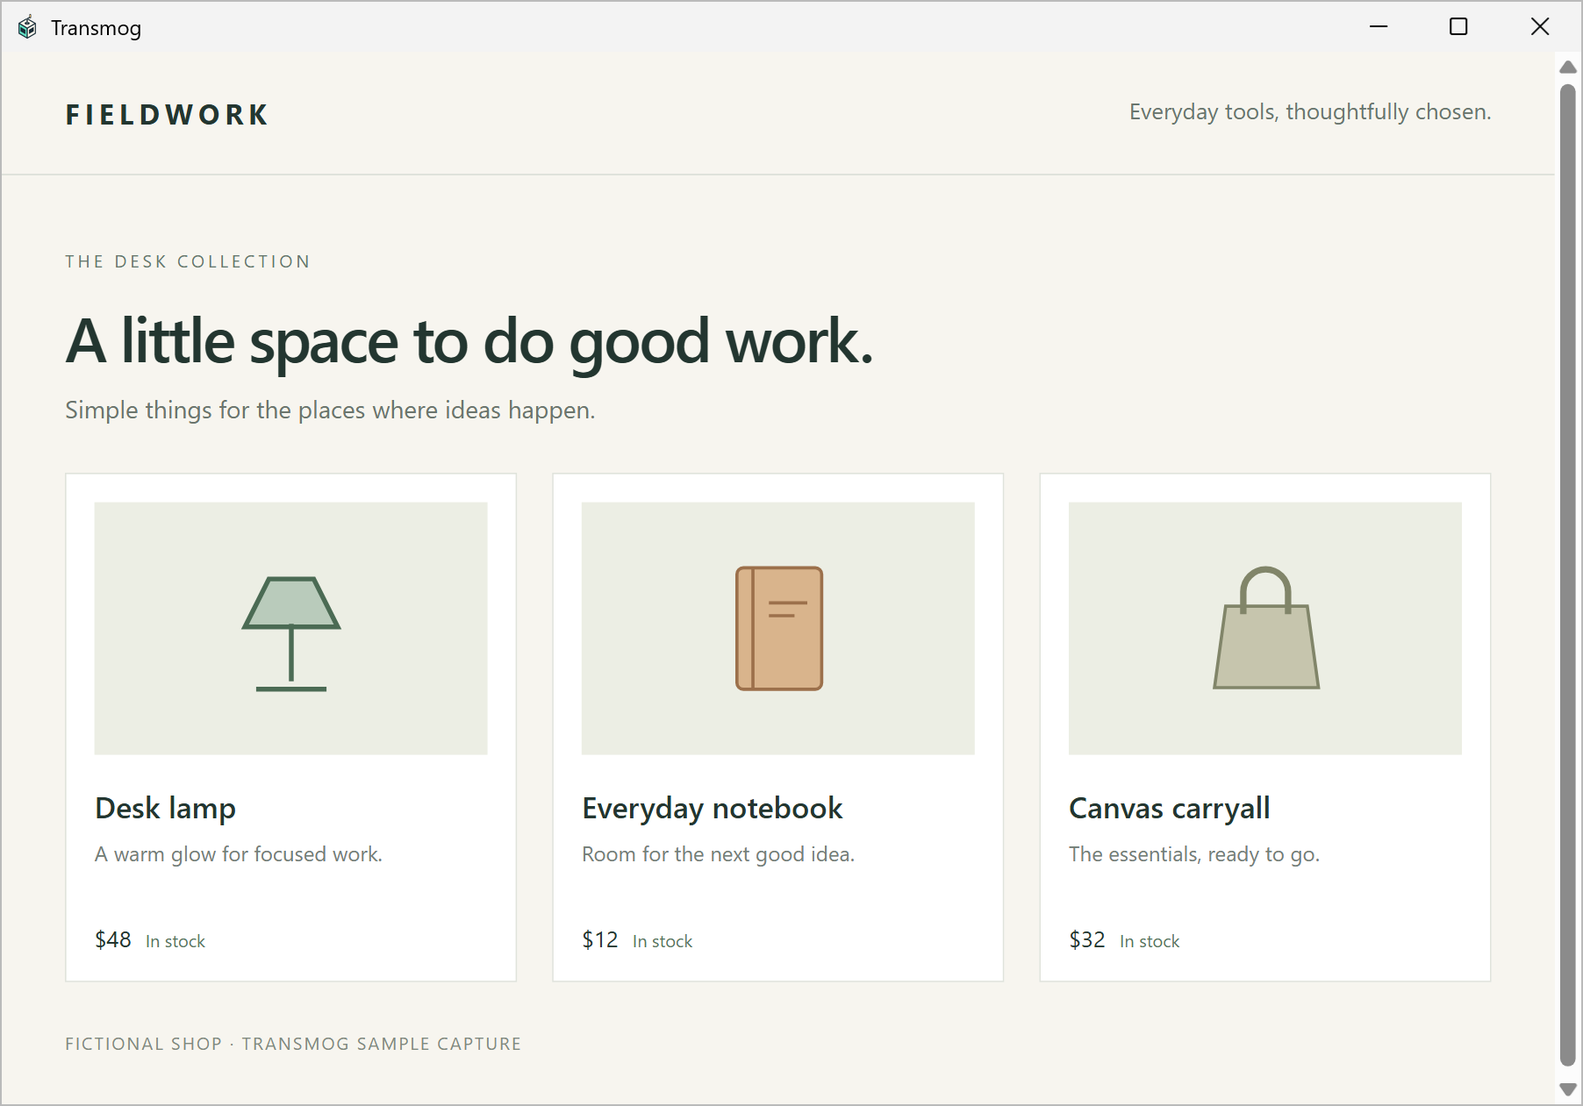
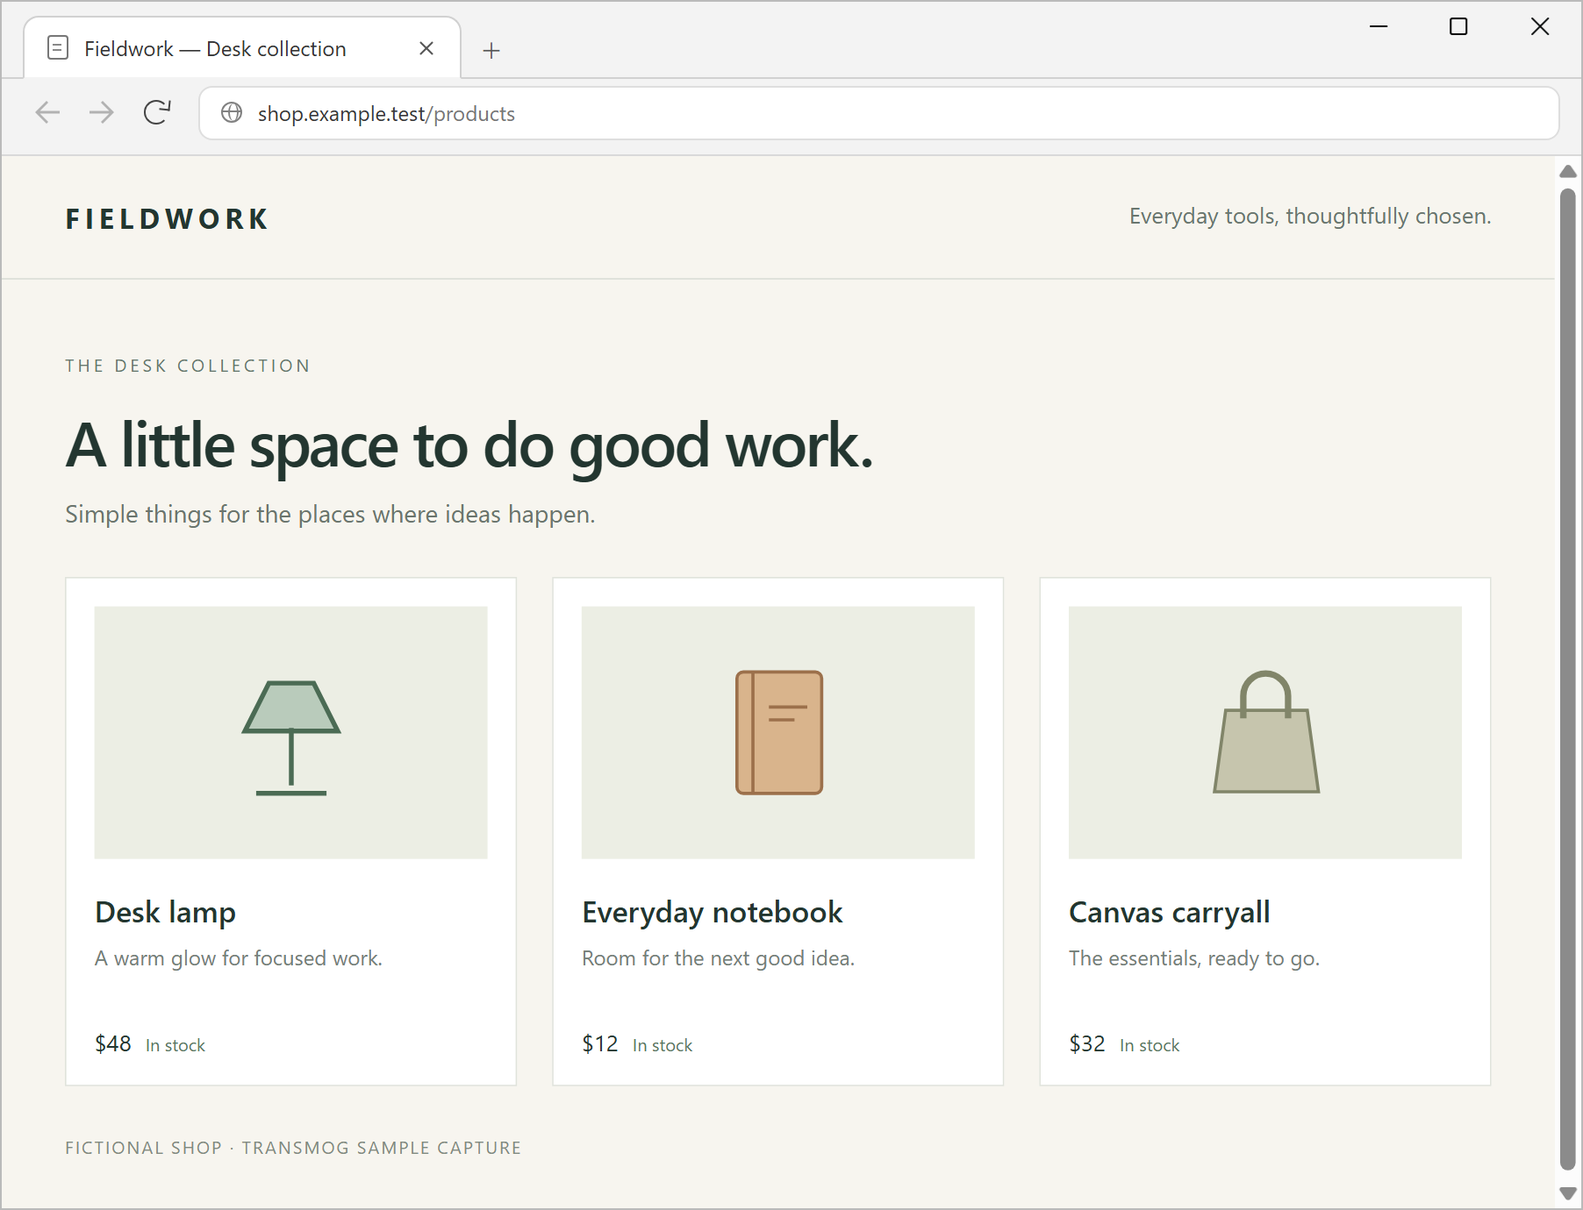
Render page previews with the joined browser frame

diff --git a/scripts/browser-frame.html b/scripts/browser-frame.html
@@ -1,0 +1,139 @@
+<!doctype html>
+<html lang="en">
+<head>
+  <meta charset="utf-8">
+  <meta name="viewport" content="width=device-width, initial-scale=1">
+  <title>Browser frame treatments</title>
+  <style>
+    * { box-sizing: border-box; }
+    body { margin: 24px; background: #faf8f2; color: #243238; font-family: "Segoe UI", system-ui, sans-serif; }
+    .demo-controls { display: flex; flex-wrap: wrap; gap: 20px; margin-bottom: 24px; }
+    .demo-controls label { display: grid; gap: 6px; font-size: 13px; }
+    .demo-controls select { min-width: 180px; padding: 8px; font: inherit; }
+    body[data-capture] { margin: 0; background: transparent; }
+    body[data-capture] .demo-controls { display: none; }
+
+    /* All dimensions below are logical pixels. Capture this element at 2×. */
+    .browser-window { width: 902px; border: 1px solid #bababa; background: #fff; color: #343434; }
+    .title-bar { position: relative; display: flex; align-items: flex-end; height: 40px; padding-left: 12px; background: #f3f3f3; }
+    /* Transform the native bitmap to logical size without fractional layout resampling. */
+    .window-controls { position: absolute; top: 0; right: 0; width: 243px; height: 57px; transform: scale(.5); transform-origin: top right; }
+    .browser-tab { position: relative; display: flex; align-items: center; gap: 9px; width: 258px; height: 32px; padding: 0 13px; border-radius: 9px 9px 0 0; background: #fff; font-size: 12px; }
+    .tab-title { flex: 1; overflow: hidden; white-space: nowrap; text-overflow: ellipsis; }
+    .page-icon { width: 12px; height: 14px; border: 1px solid #777; border-radius: 2px; flex: none; }
+    .page-icon::after { content: ""; display: block; width: 5px; margin: 4px 2px; border-top: 1px solid #888; box-shadow: 0 3px #888; }
+    .tab-close { position: relative; width: 12px; height: 12px; flex: none; }
+    .tab-close::before, .tab-close::after { content: ""; position: absolute; top: 5.5px; left: 1px; width: 10px; height: 1px; background: #555; transform: rotate(45deg); }
+    .tab-close::after { transform: rotate(-45deg); }
+    .new-tab { display: grid; place-items: center; width: 34px; height: 32px; font-size: 21px; font-weight: 300; color: #555; }
+    .toolbar { display: flex; align-items: center; gap: 10px; height: 44px; padding: 0 12px; border-bottom: 1px solid #d9d9d9; background: #fff; }
+    .navigation { display: flex; align-items: center; gap: 3px; }
+    .navigation button { display: grid; place-items: center; width: 28px; height: 28px; padding: 0; border: 0; border-radius: 5px; background: transparent; color: #444; }
+    .navigation button:disabled { color: #b2b2b2; }
+    .navigation button:not(:disabled):hover { background: #e8e8e8; }
+    /* One connected silhouette; mirroring preserves every join and stroke. */
+    .arrow { width: 16px; height: 16px; background: currentColor; clip-path: polygon(6.25% 50%, 46.875% 9.375%, 53.125% 15.625%, 23.4375% 45.3125%, 93.75% 45.3125%, 93.75% 54.6875%, 23.4375% 54.6875%, 53.125% 84.375%, 46.875% 90.625%); }
+    .forward { transform: scaleX(-1); }
+    .reload { position: relative; width: 14px; height: 14px; border: 1.5px solid; border-right-color: transparent; border-radius: 50%; }
+    .reload::after { content: ""; position: absolute; right: -1.5px; top: -1.5px; width: 5px; height: 5px; border-right: 1.5px solid; border-bottom: 1.5px solid; transform: rotate(6deg); }
+    .address { display: flex; align-items: center; gap: 9px; flex: 1; min-width: 0; height: 30px; padding: 0 12px; border-radius: 16px; background: #f3f3f3; font-size: 12px; }
+    .site-icon { width: 12px; height: 12px; border: 1px solid #818181; border-radius: 50%; position: relative; flex: none; }
+    .site-icon::before { content: ""; position: absolute; top: 4px; left: 0; width: 10px; border-top: 1px solid #818181; }
+    .site-icon::after { content: ""; position: absolute; top: 0; left: 3px; width: 4px; height: 10px; border-left: 1px solid #818181; border-right: 1px solid #818181; border-radius: 50%; }
+    .url { overflow: hidden; white-space: nowrap; text-overflow: ellipsis; color: #383838; }
+    .url-path { color: #777; }
+    .snapshot-viewport { position: relative; width: 900px; height: 600px; overflow: hidden; background: #f8f6ef; }
+    .snapshot { position: absolute; width: 902px; max-width: none; height: auto; left: -1px; bottom: -1px; display: block; }
+
+    .browser-window[data-treatment="floating"] .title-bar { height: 44px; align-items: center; }
+    .browser-window[data-treatment="floating"] .browser-tab { width: 250px; height: 29px; border: 1px solid #dedede; border-radius: 9px; box-shadow: 0 1px 2px #0000000d; }
+    .browser-window[data-treatment="floating"] .toolbar { background: #f3f3f3; padding-bottom: 5px; height: 44px; }
+    .browser-window[data-treatment="floating"] .address { height: 31px; background: #fff; border: 1px solid #dedede; border-radius: 8px; }
+    .browser-window[data-treatment="floating"] .navigation button { border-radius: 50%; }
+
+    /* The floating treatment's soft surfaces with one continuous tab outline. */
+    .browser-window[data-treatment="joined"] .title-bar { height: 44px; padding-left: 12px; border-bottom: 1px solid #d1d1d1; }
+    .browser-window[data-treatment="joined"] .browser-tab { z-index: 1; bottom: -1px; width: 250px; height: 36px; border: 1px solid #d1d1d1; border-bottom-color: #f3f3f3; border-radius: 9px 9px 0 0; background: #fff; }
+    .browser-window[data-treatment="joined"] .new-tab { height: 36px; }
+    .browser-window[data-treatment="joined"] .toolbar { height: 44px; padding-bottom: 5px; background: #f3f3f3; }
+    .browser-window[data-treatment="joined"] .address { height: 31px; border: 1px solid #dedede; border-radius: 8px; background: #fff; }
+    .browser-window[data-treatment="joined"] .navigation button { border-radius: 50%; }
+
+    .browser-window[data-treatment="compact"] .title-bar { height: 34px; padding-left: 8px; }
+    .browser-window[data-treatment="compact"] .browser-tab { width: 218px; height: 29px; border: 1px solid #d6d6d6; border-bottom: 0; border-radius: 4px 4px 0 0; }
+    .browser-window[data-treatment="compact"] .new-tab { height: 29px; }
+    .browser-window[data-treatment="compact"] .toolbar { height: 34px; padding: 0 9px; gap: 10px; }
+    .browser-window[data-treatment="compact"] .navigation { gap: 0; padding-right: 8px; border-right: 1px solid #ddd; }
+    .browser-window[data-treatment="compact"] .navigation button { width: 26px; height: 26px; }
+    .browser-window[data-treatment="compact"] .address { height: 26px; padding-left: 0; background: transparent; border-radius: 0; }
+  </style>
+</head>
+<body>
+  <div class="demo-controls">
+    <label>Treatment<select id="treatment"><option value="joined">Joined tab</option><option value="raised">Raised tab</option><option value="floating">Floating tab</option><option value="compact">Compact tab</option></select></label>
+    <label>Response<select id="response"><option value="original">Original response</option><option value="modified">Modified response</option></select></label>
+  </div>
+  <main class="browser-window" id="browser-window" data-treatment="joined" aria-label="Generic browser preview">
+    <div class="title-bar">
+      <div class="browser-tab"><span class="page-icon" aria-hidden="true"></span><span class="tab-title">Fieldwork — Desk collection</span><span class="tab-close" aria-hidden="true"></span></div>
+      <span class="new-tab" aria-hidden="true">+</span>
+      <img class="window-controls" src="screenshot-assets/right-windows-title-bar.png" width="243" height="57" alt="Windows minimize, maximize, and close controls">
+    </div>
+    <div class="toolbar">
+      <nav class="navigation" aria-label="Browser navigation">
+        <button type="button" disabled aria-label="Back"><span class="arrow" aria-hidden="true"></span></button>
+        <button type="button" disabled aria-label="Forward"><span class="arrow forward" aria-hidden="true"></span></button>
+        <button type="button" id="reload" aria-label="Reload"><span class="reload" aria-hidden="true"></span></button>
+      </nav>
+      <div class="address" aria-label="Address: shop.example.test/products"><span class="site-icon" aria-hidden="true"></span><span class="url">shop.example.test<span class="url-path">/products</span></span></div>
+    </div>
+    <div class="snapshot-viewport"><img class="snapshot" src="../assets/screenshots/preview-original.png" width="1804" height="1380" alt="Captured fictional Fieldwork shop"></div>
+  </main>
+  <script>
+    const parameters = new URLSearchParams(location.search);
+    if (parameters.has("capture")) document.body.dataset.capture = "";
+    const browserWindow = document.getElementById("browser-window");
+    const snapshotImage = document.querySelector(".snapshot");
+    const controlsImage = document.querySelector(".window-controls");
+    const treatmentSelect = document.getElementById("treatment");
+    const responseSelect = document.getElementById("response");
+    const sources = {
+      original: "../assets/screenshots/preview-original.png",
+      modified: "../assets/screenshots/preview-css-change.png",
+    };
+    // The capture runner can supply a fresh, unframed snapshot. The standalone
+    // defaults align the page to the bottom border, independent of header height.
+    window.renderBrowserFrame = async ({
+      treatment = "joined", response = "original", snapshot,
+      density = 2, sourceWidth,
+      contentBounds = { x: 2, width: 1800, height: 1200 },
+    } = {}) => {
+      if (!["joined", "raised", "floating", "compact"].includes(treatment) || !sources[response])
+        throw new Error("Unknown browser frame treatment or response");
+      browserWindow.dataset.treatment = treatment;
+      treatmentSelect.value = treatment;
+      responseSelect.value = response;
+      browserWindow.style.width = contentBounds.width / density + 2 + "px";
+      const viewport = document.querySelector(".snapshot-viewport");
+      viewport.style.width = contentBounds.width / density + "px";
+      viewport.style.height = contentBounds.height / density + "px";
+      snapshotImage.src = snapshot || sources[response];
+      await Promise.all([snapshotImage.decode(), controlsImage.decode(), document.fonts.ready]);
+      const y = contentBounds.y ?? snapshotImage.naturalHeight - contentBounds.height - contentBounds.x;
+      snapshotImage.style.width = (sourceWidth ?? snapshotImage.naturalWidth) / density + "px";
+      snapshotImage.style.left = -contentBounds.x / density + "px";
+      snapshotImage.style.top = -y / density + "px";
+      snapshotImage.style.bottom = "auto";
+      return { width: browserWindow.offsetWidth, height: browserWindow.offsetHeight };
+    };
+    const update = () => window.renderBrowserFrame({ treatment: treatmentSelect.value, response: responseSelect.value });
+    treatmentSelect.addEventListener("change", update);
+    responseSelect.addEventListener("change", update);
+    document.getElementById("reload").addEventListener("click", () => snapshotImage.decode());
+    window.browserFrameReady = window.renderBrowserFrame({
+      treatment: parameters.get("treatment") || "joined",
+      response: parameters.get("response") || "original",
+    });
+  </script>
+</body>
+</html>

diff --git a/index.html b/index.html
@@ -55,8 +55,8 @@
         <div class="story-copy"><p>Modify response headers or content to test how your app behaves. Try saved responses in a captured-page preview, compare the result with the original, and choose when to apply changes to live traffic.</p><p>Keep related changes in a response set, save named versions, and retain a demo—even after clearing Traffic or restarting. Previews use available captured resources and saved responses; missing resources stay blocked.</p></div>
       </div>
       <div class="preview-pair">
-        <figure class="preview-shot"><div class="shot-label"><span>Original response</span><span class="figure-tag">CAPTURED PAGE</span></div><a class="screenshot-link" href="assets/screenshots/preview-original.png" data-lightbox="Original captured-page preview" aria-label="Enlarge the original captured-page preview"><img src="assets/screenshots/preview-original.png" width="1804" height="1261" loading="lazy" alt="Captured sample shop with a cramped two-column product layout."><span class="zoom-hint" aria-hidden="true">↗ Expand screenshot</span></a></figure>
-        <figure class="preview-shot modified"><div class="shot-label"><span>Modified response</span><span class="figure-tag">SAME CAPTURE</span></div><a class="screenshot-link" href="assets/screenshots/preview-css-change.png" data-lightbox="Modified captured-page preview" aria-label="Enlarge the modified captured-page preview"><img src="assets/screenshots/preview-css-change.png" width="1804" height="1261" loading="lazy" alt="The same captured shop with three columns and more spacing after editing its stylesheet response."><span class="zoom-hint" aria-hidden="true">↗ Expand screenshot</span></a></figure>
+        <figure class="preview-shot"><div class="shot-label"><span>Original response</span><span class="figure-tag">CAPTURED PAGE</span></div><a class="screenshot-link" href="assets/screenshots/preview-original.png" data-lightbox="Original captured-page preview" aria-label="Enlarge the original captured-page preview"><img src="assets/screenshots/preview-original.png" width="1804" height="1380" loading="lazy" alt="Captured sample shop with a cramped two-column product layout."><span class="zoom-hint" aria-hidden="true">↗ Expand screenshot</span></a></figure>
+        <figure class="preview-shot modified"><div class="shot-label"><span>Modified response</span><span class="figure-tag">SAME CAPTURE</span></div><a class="screenshot-link" href="assets/screenshots/preview-css-change.png" data-lightbox="Modified captured-page preview" aria-label="Enlarge the modified captured-page preview"><img src="assets/screenshots/preview-css-change.png" width="1804" height="1380" loading="lazy" alt="The same captured shop with three columns and more spacing after editing its stylesheet response."><span class="zoom-hint" aria-hidden="true">↗ Expand screenshot</span></a></figure>
       </div>
       <div class="example-note"><p>One example: the same captured page, with an edited stylesheet response.</p><span class="sample-note">Captured-page preview · Sample page</span></div>
       <details class="editor-example"><summary>See the response edit</summary><a class="screenshot-link feature-shot" href="assets/screenshots/response-set-css.png" data-lightbox="Response editor" aria-label="Enlarge the response editor screenshot"><img src="assets/screenshots/response-set-css.png" width="2884" height="1861" loading="lazy" alt="Transmog response-set editor with the saved stylesheet change used in the preview."><span class="zoom-hint" aria-hidden="true">↗ Expand screenshot</span></a></details>

diff --git a/README.md b/README.md
@@ -22,12 +22,12 @@ Pushes to `main` run the checks and publish `dist/`. Pull requests run the same 
 
 ## Reproduce the product screenshots
 
-The nine screenshots come from the **released Windows app**, including its native captured-page previews. The current source is v0.1.15 Canary; `screenshot-source.json` pins its source commit and hashes for the app, CLI, and both worker executables. The release installer and CLI were checked against the release's published `SHA256SUMS` before extraction.
+The nine screenshots capture the **released Windows app**, including its native captured-page preview content. The original and modified page previews place that unchanged content inside illustrative, unbranded browser chrome rendered from `scripts/browser-frame.html`. The current source is v0.1.15 Canary; `screenshot-source.json` pins its source commit and hashes for the app, CLI, and both worker executables. The release installer and CLI were checked against the release's published `SHA256SUMS` before extraction.
 
 The generator imports fictional `.test` traffic into an isolated temporary profile. It uses production commands and controls, preserving captured app pixels and adding the supplied Windows title bar and border around them. It never starts a proxy, installs certificates, or uses a personal capture. Timing and TLS metadata are synthetic examples, not performance measurements. Certificate screenshots use the app's public test certificates; the illustrated TLS connection uses classical X25519. PQC capability statements are grounded in the released implementation, not inferred from that screenshot.
 
 1. Use a clean checkout of the application at the commit in `screenshot-source.json`. Keep it separate from ongoing app edits.
-2. Use Windows with WebView2, Python 3.11+, Node 24+, and the native tools required by the app's `scripts/dev-env.py --check`. Extract the pinned release installer into a separate directory, retaining `transmog.exe`, `transmog-cli.exe`, `transmog-preview-worker.exe`, and `transmog-script-host.exe` together. The screenshot generator does not build or install the application.
+2. Use Windows with WebView2, Python 3.11+, Node 24+, and the native tools required by the app's `scripts/dev-env.py --check`. Install the website dependencies and Playwright Chromium as described above. Extract the pinned release installer into a separate directory, retaining `transmog.exe`, `transmog-cli.exe`, `transmog-preview-worker.exe`, and `transmog-script-host.exe` together. The screenshot generator does not build or install the application.
 3. From this website repository run:
 
    ```sh
@@ -38,9 +38,9 @@ The generator imports fictional `.test` traffic into an isolated temporary profi
 
    `--python` is optional when `TRANSMOG_PYTHON` or a working `python` is available. The script checks the app environment, copies the release executables into an owned temporary directory, imports the fixture, and captures Traffic, Auth, timing, response editing, previews, certificates, connection details, and MCP rule collaboration. It waits for visible JSON syntax colors, verifies that the modified preview differs and that a saved demo reopens after clearing Traffic, and uses the real MCP connector to prepare a disabled, agent-attributed header rule. The disposable access key stays scoped to the fictional API with default redaction and is revoked after capture. No desktop source files are modified.
 
-The app viewport is 1440 × 900 and the preview viewport is 900 × 600, both at 2× scale. Each capture receives a 1 logical pixel (2 physical pixels) `#BABABA` outer border. Inside it, the supplied left and right Windows title bar PNGs from `scripts/screenshot-assets/` sit above the capture at their native 2× size, with `#F3F3F3` filling the space between them. The title bar is 57 physical pixels tall, making the final app images 2884 × 1861 and previews 1804 × 1261. These source assets stay outside the published image directory.
+The app viewport is 1440 × 900 and the preview viewport is 900 × 600, both at 2× scale. Each capture receives a 1 logical pixel (2 physical pixels) `#BABABA` outer border. App screenshots use the supplied left and right Windows title bar PNGs from `scripts/screenshot-assets/`, with `#F3F3F3` filling the space between them. Their title bar is 57 physical pixels tall, making the final app images 2884 × 1861. Page previews instead use the selected Joined tab browser frame, with an 88 logical pixel header, producing 1804 × 1380 images. That frame reuses only the right Windows controls PNG. Source assets and the browser HTML stay outside the published image directory.
 
-The generator applies the viewports, scale, window frame, sample capture time, locale, theme, and timezone from `screenshot-source.json`. `screenshot-manifest.json` records the app commit, executable, fixture, generator, frame renderer and title bar asset hashes, WebView2 version, OS, Node version, dimensions, and image hashes. Content pixel hashes verify that framing preserves the captured app content. The generator uses helpers from the pinned app checkout, stages images until all capture assertions pass, and records cleanup evidence under ignored `.cache/`.
+The generator applies the viewports, scale, selected frames, sample capture time, locale, theme, and timezone from `screenshot-source.json`. `screenshot-manifest.json` records the app commit, executable, fixture, generator, frame renderer, browser HTML and title bar asset hashes, browser versions, OS, Node version, dimensions, content offsets, and image hashes. Pixel checks verify that framing preserves captured content and the supplied window controls, and that the browser arrows are exact mirrors. The generator uses helpers from the pinned app checkout, stages images until all capture assertions pass, and records cleanup evidence under ignored `.cache/`.
 
 Add `--verify` to render into ignored `.cache/screenshot-verify/` without replacing the site images. This repeats the behavioral assertions and checks the image inventory; review the regenerated images visually because native browser and font updates can change pixels. `npm run check` verifies the exact published image hashes, frame colors and placement, unchanged content pixels, and generator provenance without launching the desktop app.
 
@@ -53,6 +53,12 @@ npm run screenshots -- --app /path/to/transmog --native-executable /path/to/extr
 ```
 
 This updates the source pin, all nine PNGs, and their manifest together. Review every image at full size and check the page before committing them. Keep examples fictional. Update selectors and fixture records when the app's commands or UI change. Do not redraw the app or patch captured pixels.
+
+### Compare browser frame treatments
+
+`scripts/browser-frame.html` is the editable source for the generic browser frame around the original and modified page previews. Open it directly to switch between Joined tab, Raised tab, Floating tab, and Compact tab, and between the two responses. The selected Joined tab combines the floating treatment's soft surfaces with a continuous outline around the tab and across the full window. It uses the supplied right Windows controls PNG, with no Transmog title bar or browser brand. All frame dimensions are logical pixels. The forward arrow mirrors the single connected back arrow shape with `scaleX(-1)`.
+
+Run `npm run screenshots:browser-treatments` to capture all eight combinations from that HTML at the pinned 2× density. Draft images and their source hashes go to ignored `.cache/browser-frame-treatments/`. This uses the same HTML renderer and pixel checks as production. `npm run screenshots` renders fresh unframed previews through `window.renderBrowserFrame()` using the treatment in `screenshot-source.json`. After editing the browser HTML, regenerate the product screenshots and provenance together before building and checking the site.
 
 ## Domain
 
